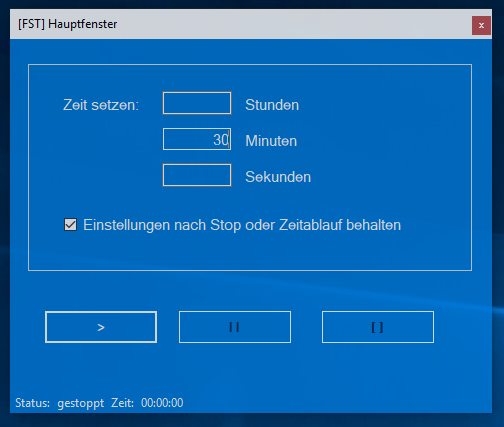
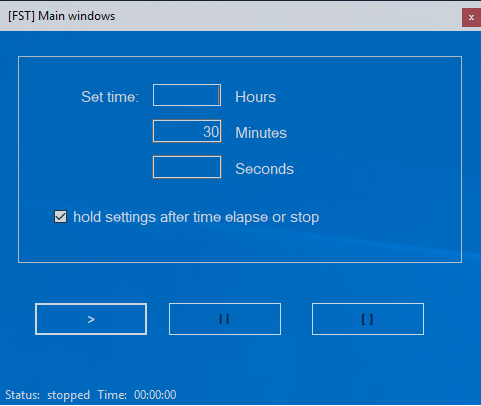
* translated main form control texts to english * added english status phrases to MainForm -> Line16 - 19 * redone screenshots

diff --git a/TFSF/MainForm.Designer.cs b/TFSF/MainForm.Designer.cs
@@ -77,9 +77,9 @@
             this.chkKeepSettings.Location = new System.Drawing.Point(36, 158);
             this.chkKeepSettings.Margin = new System.Windows.Forms.Padding(4);
             this.chkKeepSettings.Name = "chkKeepSettings";
-            this.chkKeepSettings.Size = new System.Drawing.Size(345, 22);
+            this.chkKeepSettings.Size = new System.Drawing.Size(273, 22);
             this.chkKeepSettings.TabIndex = 9;
-            this.chkKeepSettings.Text = "Einstellungen nach Stop oder Zeitablauf behalten";
+            this.chkKeepSettings.Text = "hold settings after time elapse or stop";
             this.chkKeepSettings.UseVisualStyleBackColor = true;
             this.chkKeepSettings.CheckedChanged += new System.EventHandler(this.chkKeepSettings_CheckedChanged);
             // 
@@ -89,9 +89,9 @@
             this.Sekunden.Location = new System.Drawing.Point(214, 111);
             this.Sekunden.Margin = new System.Windows.Forms.Padding(4, 0, 4, 0);
             this.Sekunden.Name = "Sekunden";
-            this.Sekunden.Size = new System.Drawing.Size(74, 18);
+            this.Sekunden.Size = new System.Drawing.Size(67, 18);
             this.Sekunden.TabIndex = 6;
-            this.Sekunden.Text = "Sekunden";
+            this.Sekunden.Text = "Seconds";
             // 
             // Minuten
             // 
@@ -101,7 +101,7 @@
             this.Minuten.Name = "Minuten";
             this.Minuten.Size = new System.Drawing.Size(60, 18);
             this.Minuten.TabIndex = 5;
-            this.Minuten.Text = "Minuten";
+            this.Minuten.Text = "Minutes";
             // 
             // Stunden
             // 
@@ -109,9 +109,9 @@
             this.Stunden.Location = new System.Drawing.Point(214, 39);
             this.Stunden.Margin = new System.Windows.Forms.Padding(4, 0, 4, 0);
             this.Stunden.Name = "Stunden";
-            this.Stunden.Size = new System.Drawing.Size(62, 18);
+            this.Stunden.Size = new System.Drawing.Size(49, 18);
             this.Stunden.TabIndex = 4;
-            this.Stunden.Text = "Stunden";
+            this.Stunden.Text = "Hours";
             // 
             // txtSeconds
             // 
@@ -150,12 +150,12 @@
             // label1
             // 
             this.label1.AutoSize = true;
-            this.label1.Location = new System.Drawing.Point(32, 39);
+            this.label1.Location = new System.Drawing.Point(60, 39);
             this.label1.Margin = new System.Windows.Forms.Padding(4, 0, 4, 0);
             this.label1.Name = "label1";
-            this.label1.Size = new System.Drawing.Size(84, 18);
+            this.label1.Size = new System.Drawing.Size(66, 18);
             this.label1.TabIndex = 0;
-            this.label1.Text = "Zeit setzen:";
+            this.label1.Text = "Set time:";
             // 
             // btnStop
             // 
@@ -228,14 +228,14 @@
             // toolStripStatusLabel1
             // 
             this.toolStripStatusLabel1.Name = "toolStripStatusLabel1";
-            this.toolStripStatusLabel1.Size = new System.Drawing.Size(54, 17);
-            this.toolStripStatusLabel1.Text = "gestoppt";
+            this.toolStripStatusLabel1.Size = new System.Drawing.Size(50, 17);
+            this.toolStripStatusLabel1.Text = "stopped";
             // 
             // toolStripStatusLabel3
             // 
             this.toolStripStatusLabel3.Name = "toolStripStatusLabel3";
-            this.toolStripStatusLabel3.Size = new System.Drawing.Size(30, 17);
-            this.toolStripStatusLabel3.Text = "Zeit:";
+            this.toolStripStatusLabel3.Size = new System.Drawing.Size(37, 17);
+            this.toolStripStatusLabel3.Text = "Time:";
             // 
             // toolStripStatusLabel2
             // 
@@ -262,7 +262,7 @@
             this.Margin = new System.Windows.Forms.Padding(4);
             this.Name = "MainForm";
             this.Opacity = 0.8D;
-            this.Text = "[FST] Hauptfenster";
+            this.Text = "[FST] Main windows";
             this.groupBox1.ResumeLayout(false);
             this.groupBox1.PerformLayout();
             this.sStrip.ResumeLayout(false);

diff --git a/TFSF/MainForm.cs b/TFSF/MainForm.cs
@@ -12,6 +12,11 @@ namespace TFSF
         private bool paused; // State of the timer [PAUSED/WORKING].
         private bool keepSettings = true; // keep settings after timer finished for next run
         private static TimerForm timerForm = new TimerForm();
+        //phrases
+        private string sStarted = "started";
+        private string sPaused = "paused";
+        private string sRunning = "running";
+        private string sFinished = "finished";
         #endregion
 
         public MainForm()
@@ -30,7 +35,7 @@ namespace TFSF
 
                 if (hours < 1 && minutes < 1 && seconds < 1)
                 {
-                    MessageBox.Show("Mindestens eine Zahl eingeben!");
+                    MessageBox.Show("We need at least one number!");
                     return;
                 }
             }
@@ -42,7 +47,7 @@ namespace TFSF
             btnStart.Enabled = false;
             btnPause.Enabled = true;
             btnStop.Enabled = true;
-            UpdateStatusStrip("gestartet");
+            UpdateStatusStrip(sStarted);
         }
 
         private void btnPause_Click(object sender, EventArgs e)
@@ -53,7 +58,7 @@ namespace TFSF
             btnStart.Enabled = true;
             btnPause.Enabled = false;
             btnStop.Enabled = true;
-            UpdateStatusStrip("pausiert");
+            UpdateStatusStrip(sPaused);
         }
         private void btnStop_Click(object sender, EventArgs e)
         {
@@ -74,7 +79,7 @@ namespace TFSF
             }
             else
             {
-                UpdateStatusStrip("läuft..");
+                UpdateStatusStrip(sRunning + "..");
                 // Else continue counting.
                 if (seconds < 1)
                 {
@@ -163,7 +168,7 @@ namespace TFSF
 
             timerForm.SetTimerLabel(0, 0, 0);
             UpdateTimerStrip("00:00:00");
-            UpdateStatusStrip("fertig");
+            UpdateStatusStrip(sFinished);
         }
     }
 }
